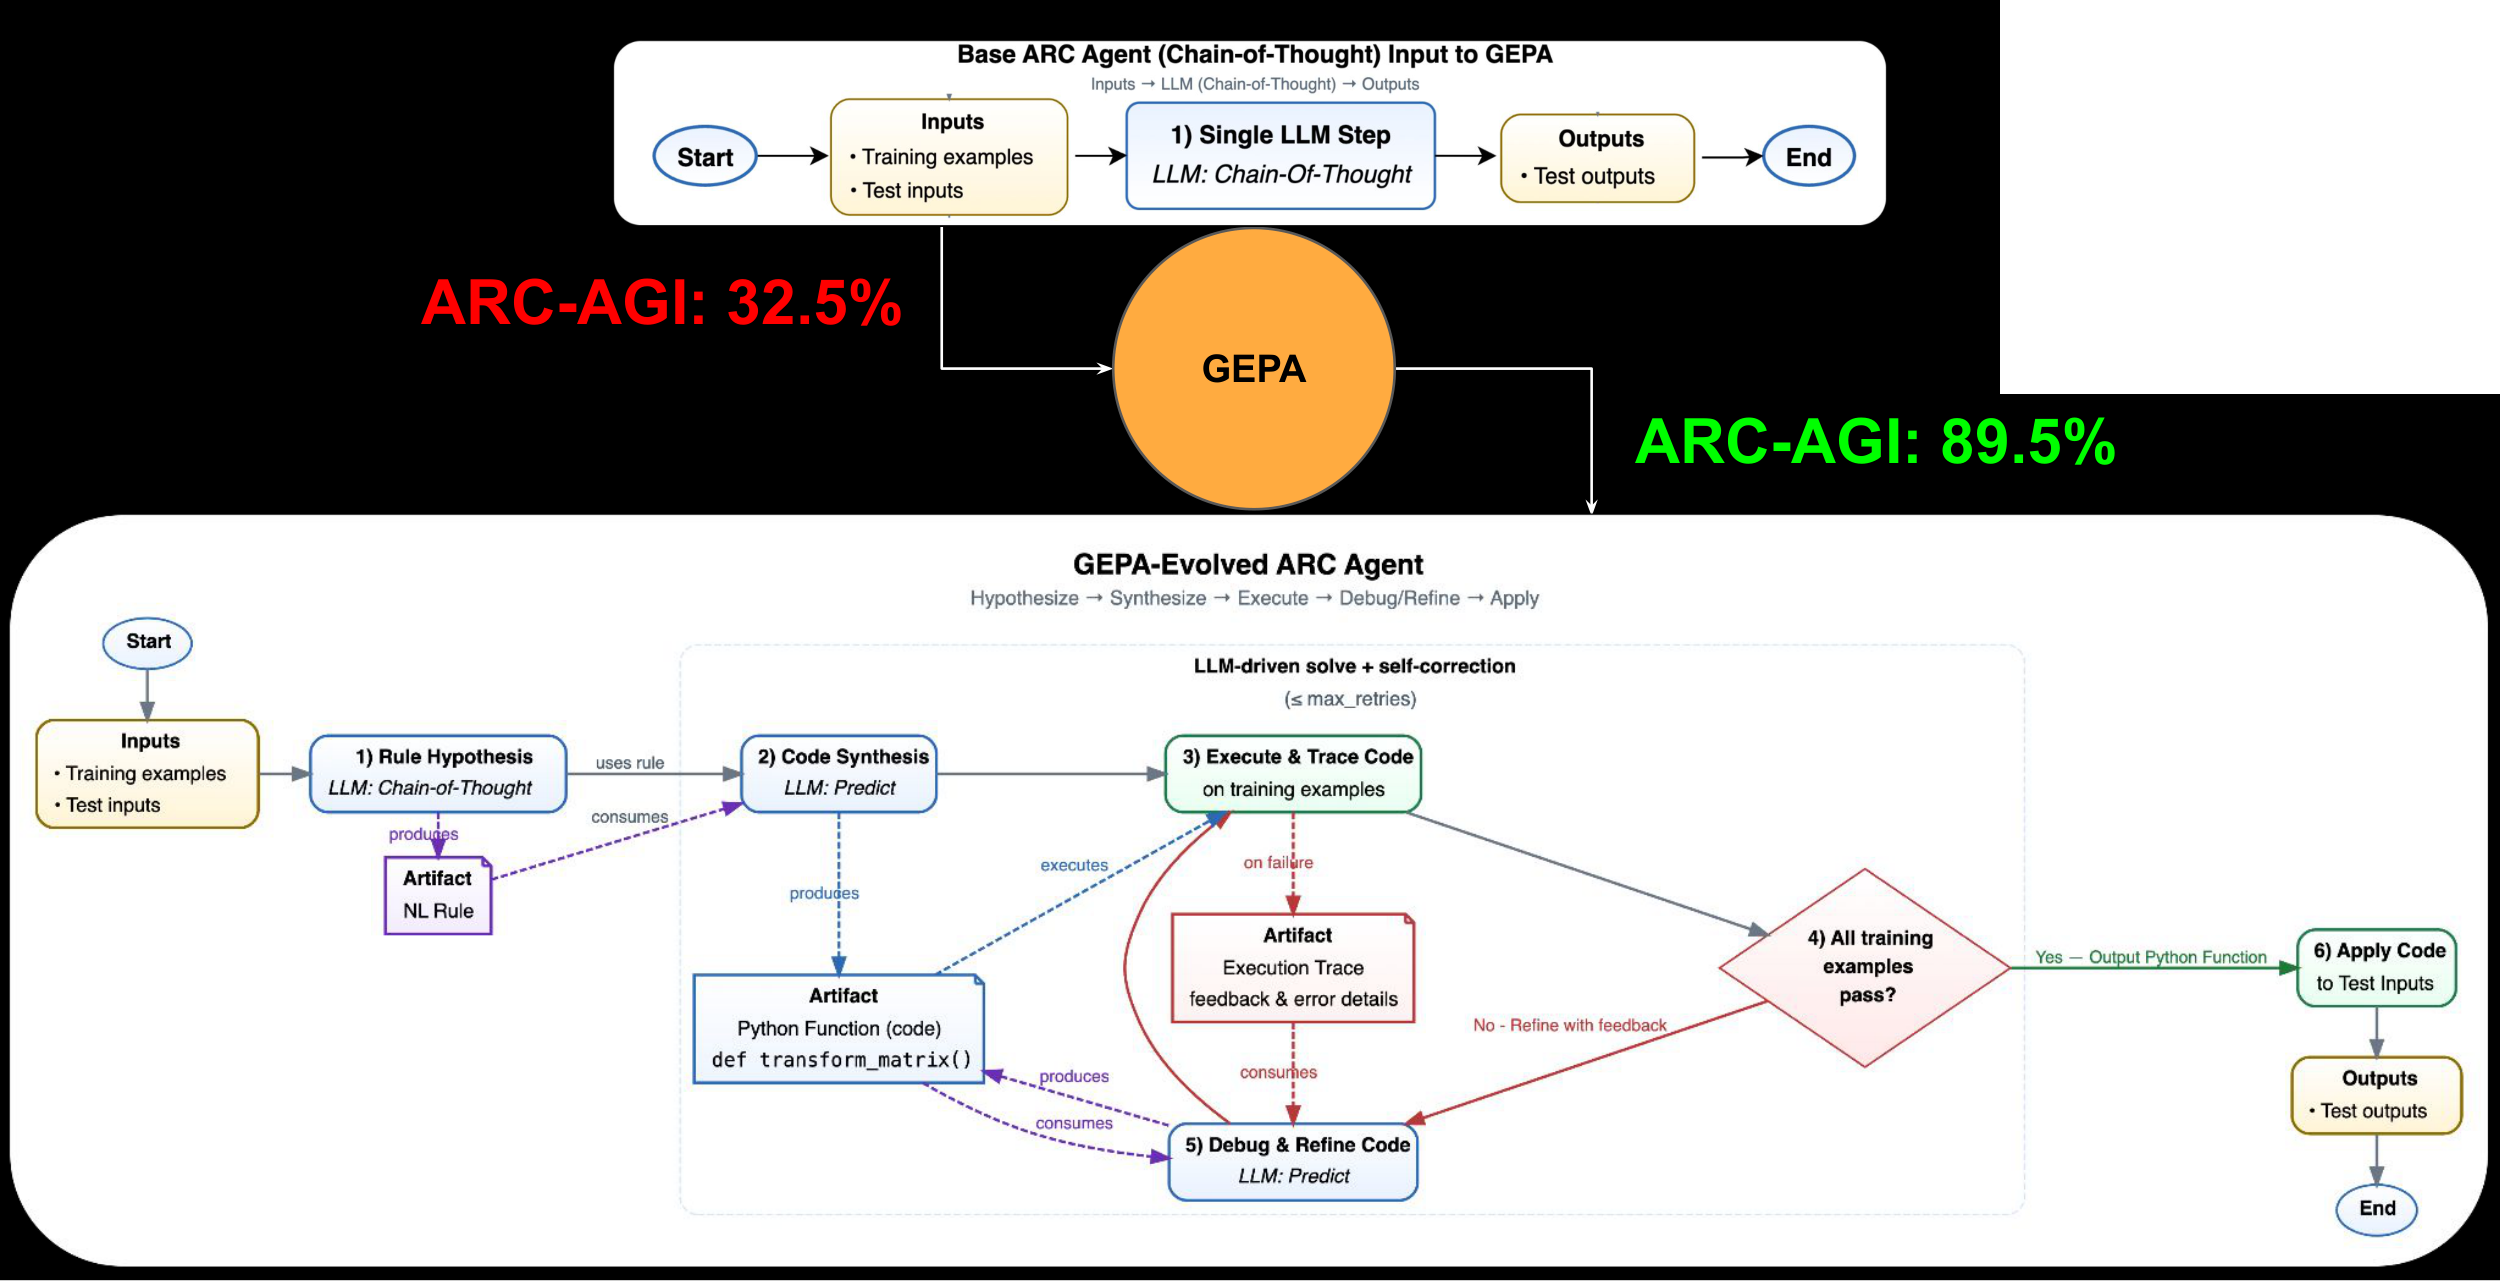
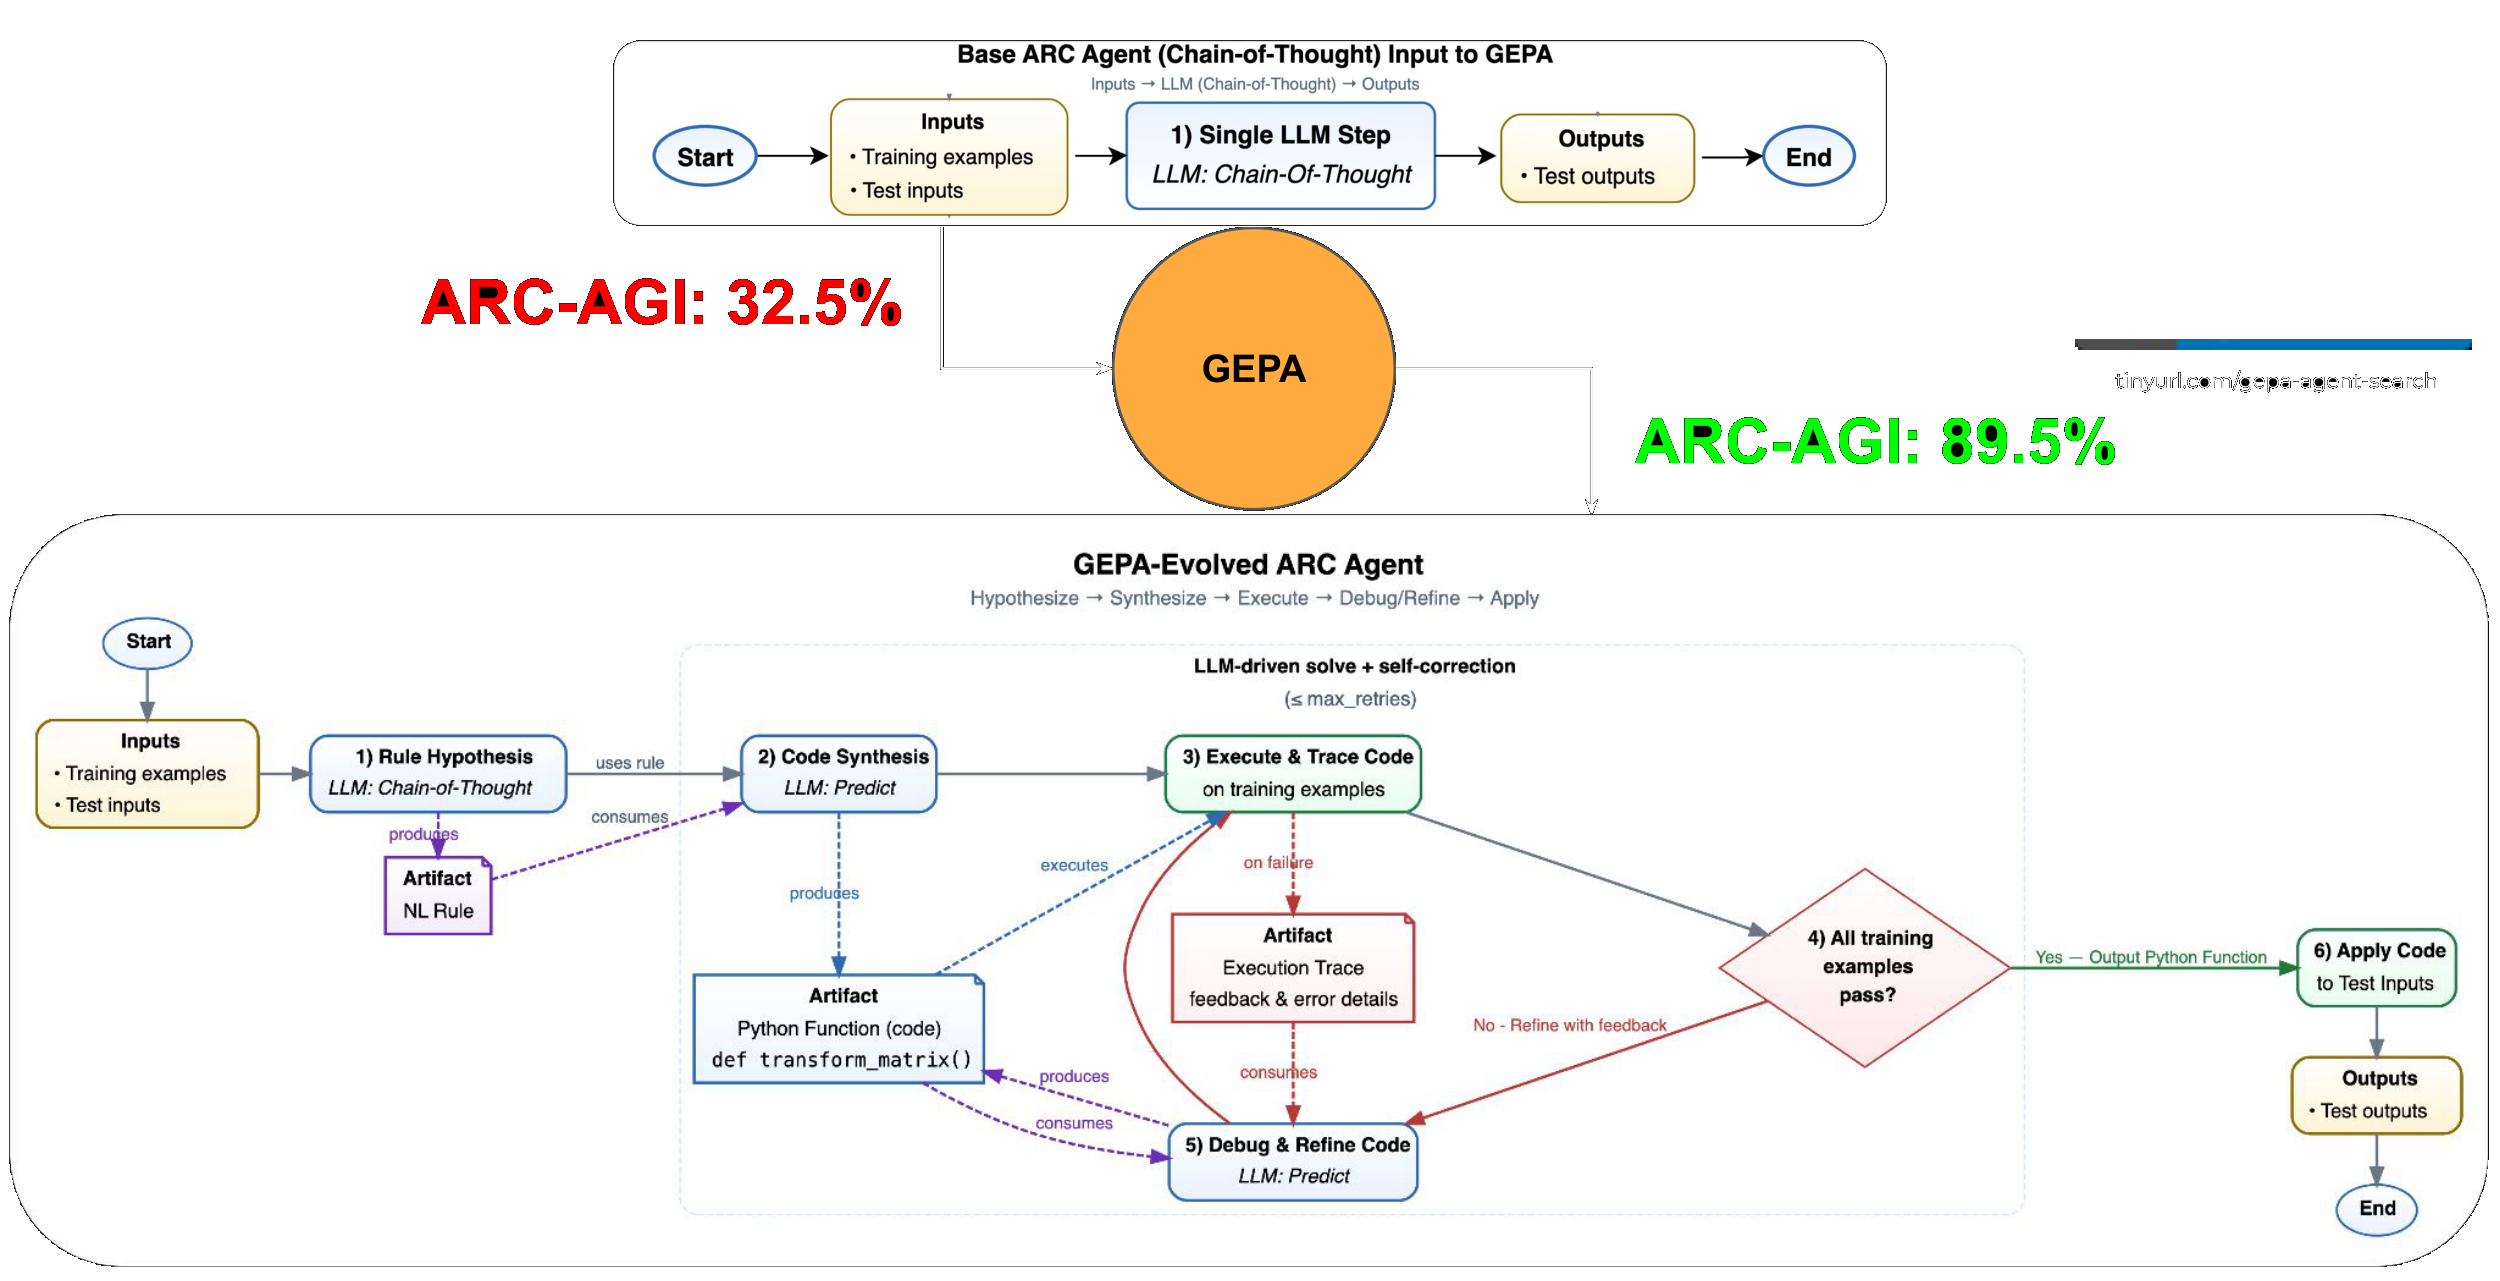
poster_d2: use PUPA GPT-4.1 Mini Papillon trees; whiten ARC-AGI slide bg
- Pareto card: swap Qwen3-8B PUPA search trees for the GPT-4.1 Mini
  versions that appeared in the D1 draft. SelectBest now clearly shows
  the star-burst local-optimum pattern (root -> 1 -> 17 siblings), and
  GEPA's tree shows deep, branchy exploration reaching candidate 12
  (96.3%). Update captions to match.
- optany_arc_talk.png: flood-fill the dark slide background with white
  from the image corners so the figure sits on the poster's light card
  background without disrupting interior box content.

Changed region(s): [[0.0, 0.0, 1.0, 1.0]]

diff --git a/poster_d2/index.html b/poster_d2/index.html
@@ -339,12 +339,12 @@ const CARD_REGISTRY = {
         <div className="hl"><p>Always picking the current best traps GEPA in a <b>local optimum</b>. Sampling from the <b>Pareto frontier</b> of "best-per-task" candidates preserves complementary strategies — <b>+8.2%</b> over SelectBest, <b>+7.3%</b> over Beam Search.</p></div>
         <div className="fig-row">
           <div className="fig">
-            <div className="fig-wrap"><img src="pareto_linear_tree.png" alt="SelectBest: linear chain stuck at a dominant ancestor" /></div>
-            <div className="cap"><b>(a) SelectBest.</b> Candidate tree collapses into a narrow chain — all effort concentrated on descendants of one ancestor. The search never revisits overlooked branches.</div>
+            <div className="fig-wrap"><img src="pareto_linear_tree.png" alt="SelectBest Candidate: fan of siblings off one best ancestor" /></div>
+            <div className="cap"><b>(a) SelectBest Candidate.</b> One early winner (1) dominates; every subsequent proposal mutates <em>that same</em> parent. The search collapses into a <b>local optimum</b> — depth 1, no diverse lineages.</div>
           </div>
           <div className="fig">
-            <div className="fig-wrap"><img src="pareto_gepa_tree.png" alt="Pareto: branchy tree exploring diverse lineages" /></div>
-            <div className="cap"><b>(b) Pareto (GEPA).</b> Sampling weighted by how many training items a candidate leads grows a <b>branchy</b> tree that illuminates the frontier, not just the mode.</div>
+            <div className="fig-wrap"><img src="pareto_gepa_tree.png" alt="Pareto (GEPA): deep branchy tree exploring diverse lineages" /></div>
+            <div className="cap"><b>(b) Pareto-based sampling (GEPA).</b> Weighting by how many training items each candidate leads keeps several rival lineages alive — <b>depth 4+, many branches</b> — and finds the true best (12, 96.3%). PUPA, GPT-4.1 Mini.</div>
           </div>
         </div>
       </>
